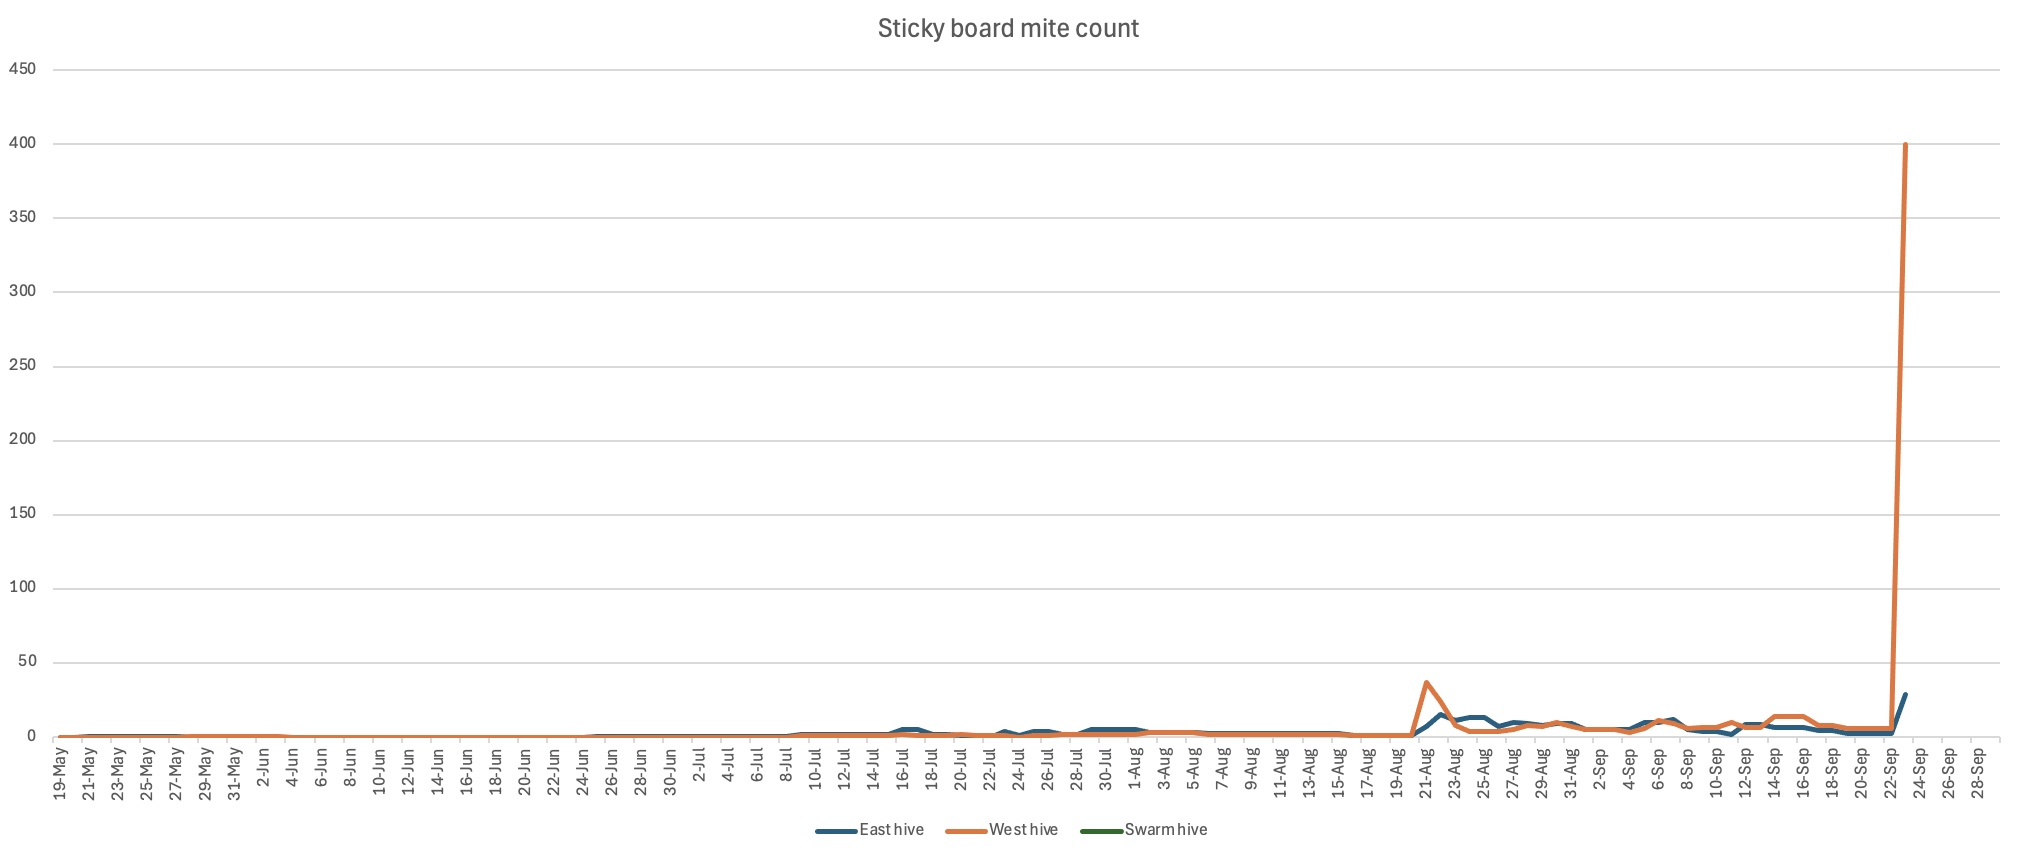
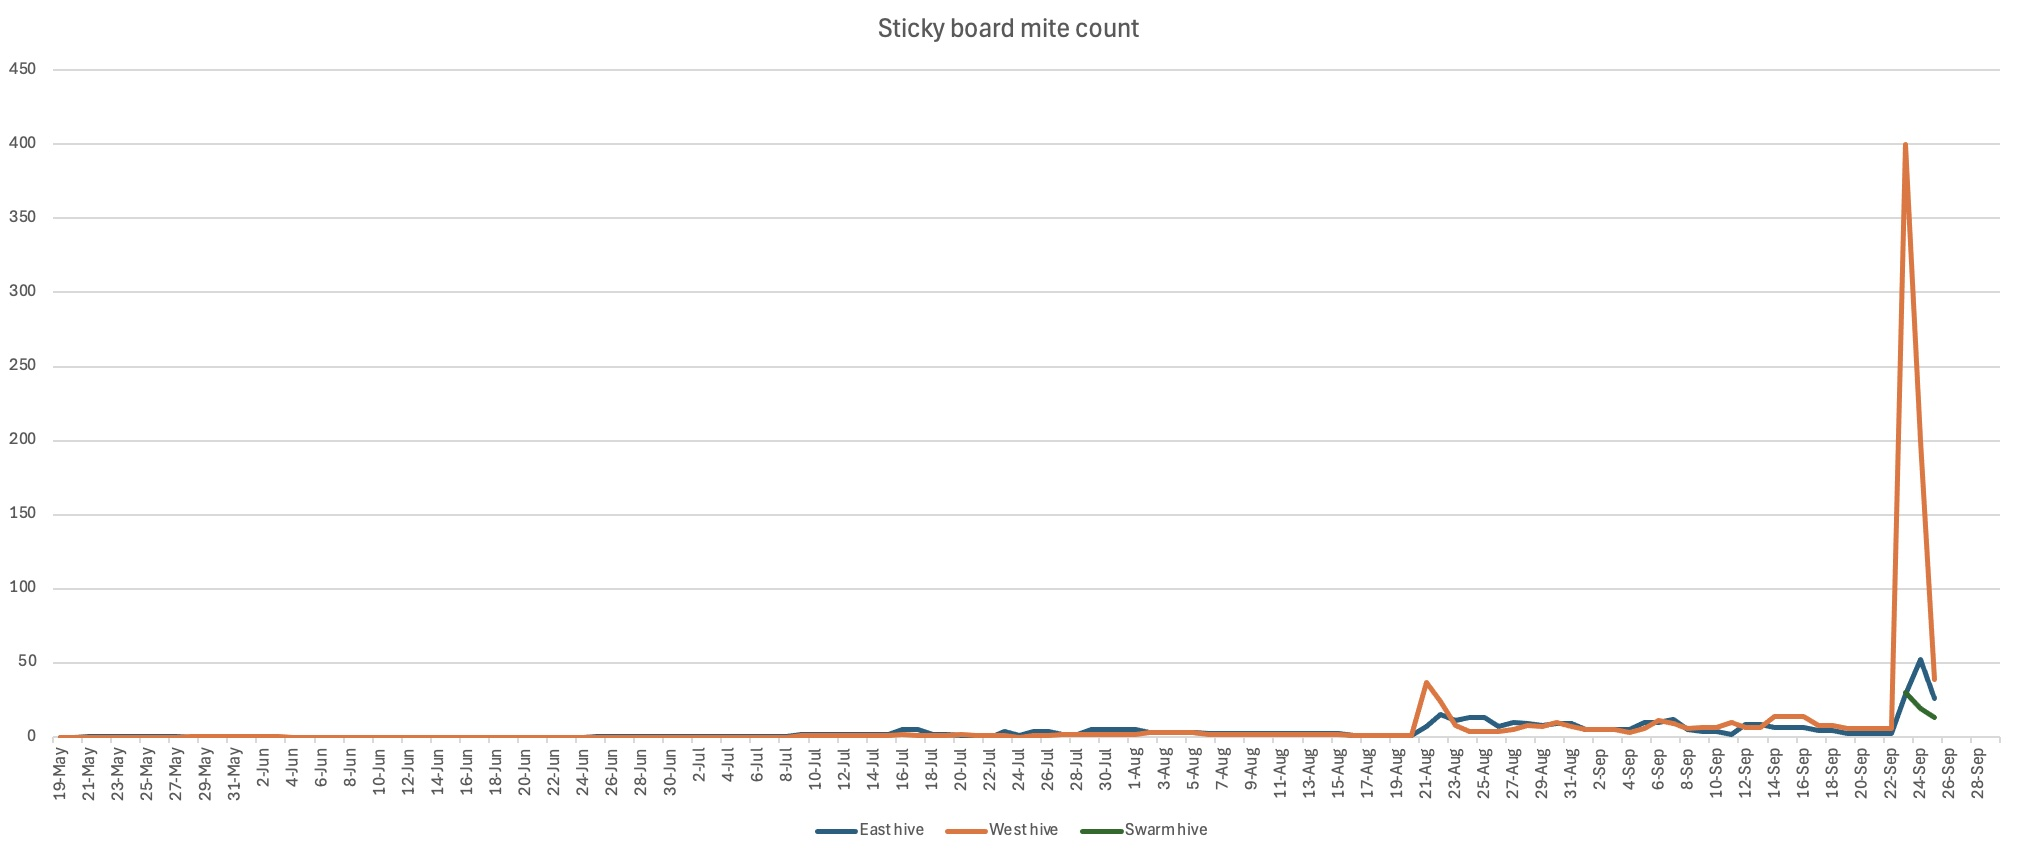
added updates

diff --git a/_posts/2024-09-24-inspection.md b/_posts/2024-09-24-inspection.md
@@ -1,0 +1,37 @@
+---
+title: "Inspection"
+date: 2024-09-24
+---
+
+
+- Time: ~12.00
+- Temp: ~66F, sunny
+
+### East hive
+
+- No inspection of this hive
+- Bottom board had 52 mites
+- Wiped and re-oiled the bottom board.
+
+### Middle hive
+
+- Temperament: buzzing, but not aggressive.
+- removed empty frames and condensed down to one deep
+- Several frames of stores, pollen and honey
+- Did not find the queen, but there was some capped brood and larvae
+- I'm a bit concerned that the queen is missing from this hive as well as the western one.
+- Bottom board had 19 mites
+- Wiped and re-oiled the bottom board.
+
+### West hive
+
+- Temperament: frantic is the best description
+- After the OAV treatment there have been lots of bees staying outside the hive
+- I think the queen has either left or died
+- No eggs found, very few larvae and capped brood
+- In 3 days I will go back and check this hive again, if there's no eggs or larvae
+I will combine.
+- Bottom board had 200 mites
+- Wiped and re-oiled the bottom board.
+
+Move middle and west hives close together in preparation to combine them.

diff --git a/_posts/2024-09-16-inspection.md b/_posts/2024-09-16-inspection.md
@@ -7,7 +7,7 @@ date: 2024-09-16
 - Time: ~14.00
 - Temp: ~65F, sunny
 
-### East nuc
+### East hive
 
 - Temperament: calm, no smoke needed
 - Eggs, larvae, and capped brood present.
@@ -15,13 +15,13 @@ date: 2024-09-16
 - Rearranged and moved one honey frame to the 3rd deep
 - also moved the other honey frames to the center of the super.
 
-### Middle nuc
+### Middle hive
 
 - Temperament: calm
 - They had taken 1qt of 22% honey
 - Put on 1qt of 1:1 along with the pollen patty
 
-### West nuc
+### West hive
 
 - Temperament: calm, no smoke needed
 - Green dot frame looks good.

diff --git a/_posts/2024-09-25-mite-check.md b/_posts/2024-09-25-mite-check.md
@@ -1,0 +1,26 @@
+---
+title: "Mite Check"
+date: 2024-09-25
+---
+
+- Time: ~07.45
+- Temp: ~57F, cloudy
+
+First day after the OAV diagnostic treatment.
+
+### East hive
+
+- Bottom board had 26 mites
+- Wiped and re-oiled the bottom board.
+
+### Swarm hive
+
+- Bottom board had 13 mites
+- Wiped and re-oiled the bottom board.
+
+### West hive
+
+- Bottom board had 39 mites
+- Wiped and re-oiled the bottom board.
+- Quite a precipitous increase of mites!
+
